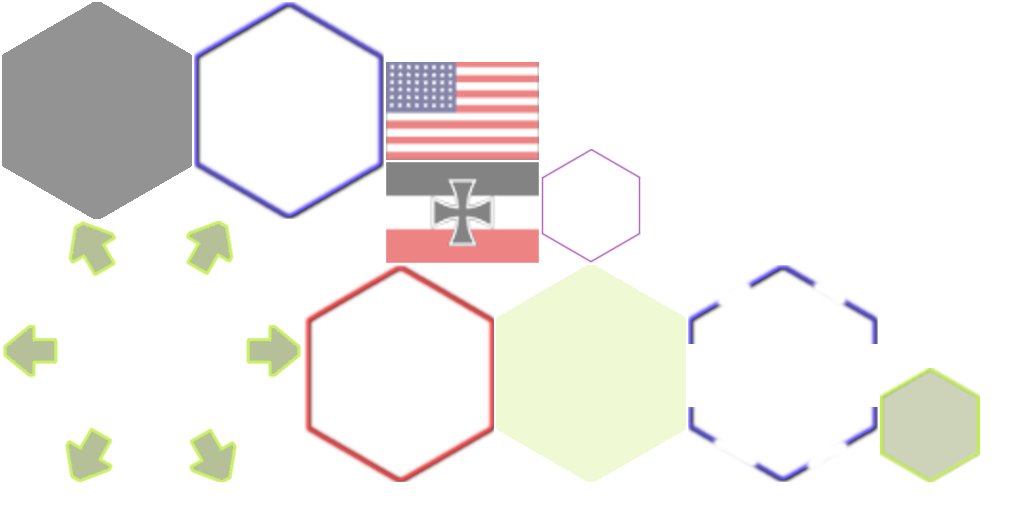
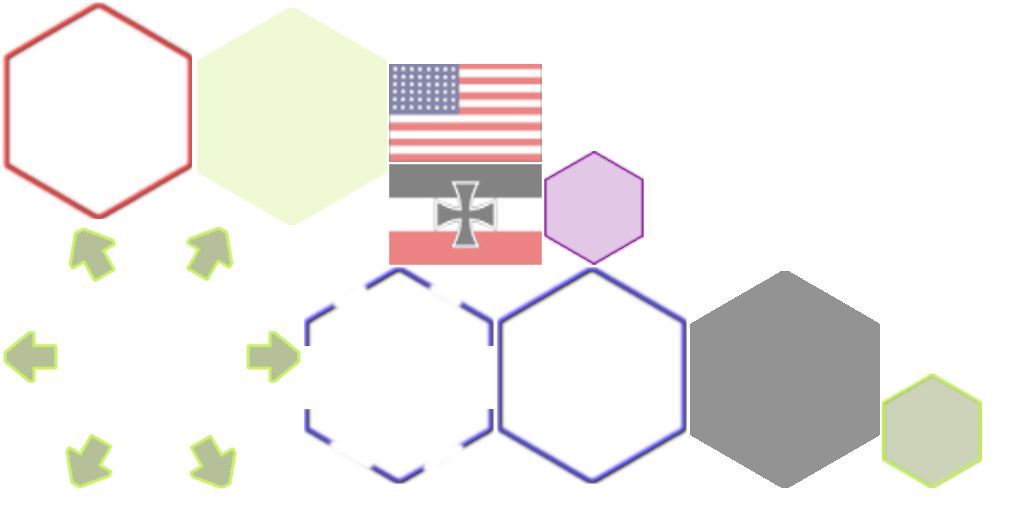
update assets

diff --git a/core/src/ch/asynk/rustanddust/RustAndDust.java b/core/src/ch/asynk/rustanddust/RustAndDust.java
@@ -93,7 +93,7 @@ public class RustAndDust extends Game
         int i = config.graphics.i;
         manager.load(String.format("data/units%d.atlas",i), TextureAtlas.class);
         manager.load(String.format("data/unit-overlays%d.atlas", i), TextureAtlas.class);
-        manager.load("data/hex.png", Texture.class);
+        manager.load("data/selected.png", Texture.class);
         manager.load("data/hud.atlas", TextureAtlas.class);
         manager.load("data/hex-overlays.atlas", TextureAtlas.class);
         manager.load("data/dice.png", Texture.class);
@@ -120,7 +120,7 @@ public class RustAndDust extends Game
         int i = config.graphics.i;
         manager.unload(String.format("data/units%d.atlas",i));
         manager.unload(String.format("data/unit-overlays%d.atlas", i));
-        manager.unload("data/hex.png");
+        manager.unload("data/selected.png");
         manager.unload("data/hud.atlas");
         manager.unload("data/hex-overlays.atlas");
         manager.unload("data/dice.png");

diff --git a/core/src/ch/asynk/rustanddust/game/Map.java b/core/src/ch/asynk/rustanddust/game/Map.java
@@ -64,7 +64,7 @@ public abstract class Map extends Board implements MoveToAnimationCb, ObjectiveS
     public Map(final RustAndDust game, String map, String hex)
     {
         super(game.factory, game.manager.get(map, Texture.class),
-                new SelectedTile(game.manager.get(hex, Texture.class), new float[] {.2f, .1f, .1f, .1f, .2f, .1f} ));
+                new SelectedTile(game.manager.get(hex, Texture.class), new float[] {.1f, .1f, .1f, .1f, .3f, .1f} ));
         this.ctrl = game.ctrl;
         this.destroy = new DestroyAnimation();
         this.tankMoveSound = game.manager.get("sounds/tank_move.mp3", Sound.class);

diff --git a/core/src/ch/asynk/rustanddust/game/battles/Factory.java b/core/src/ch/asynk/rustanddust/game/battles/Factory.java
@@ -73,7 +73,7 @@ public class Factory implements Board.TileBuilder, Disposable
         Map m = null;
         switch(t) {
             case MAP_00:
-                m = new Map00(game, "data/map_00.png", "data/hex.png");
+                m = new Map00(game, "data/map_00.png", "data/selected.png");
                 break;
         }
 
